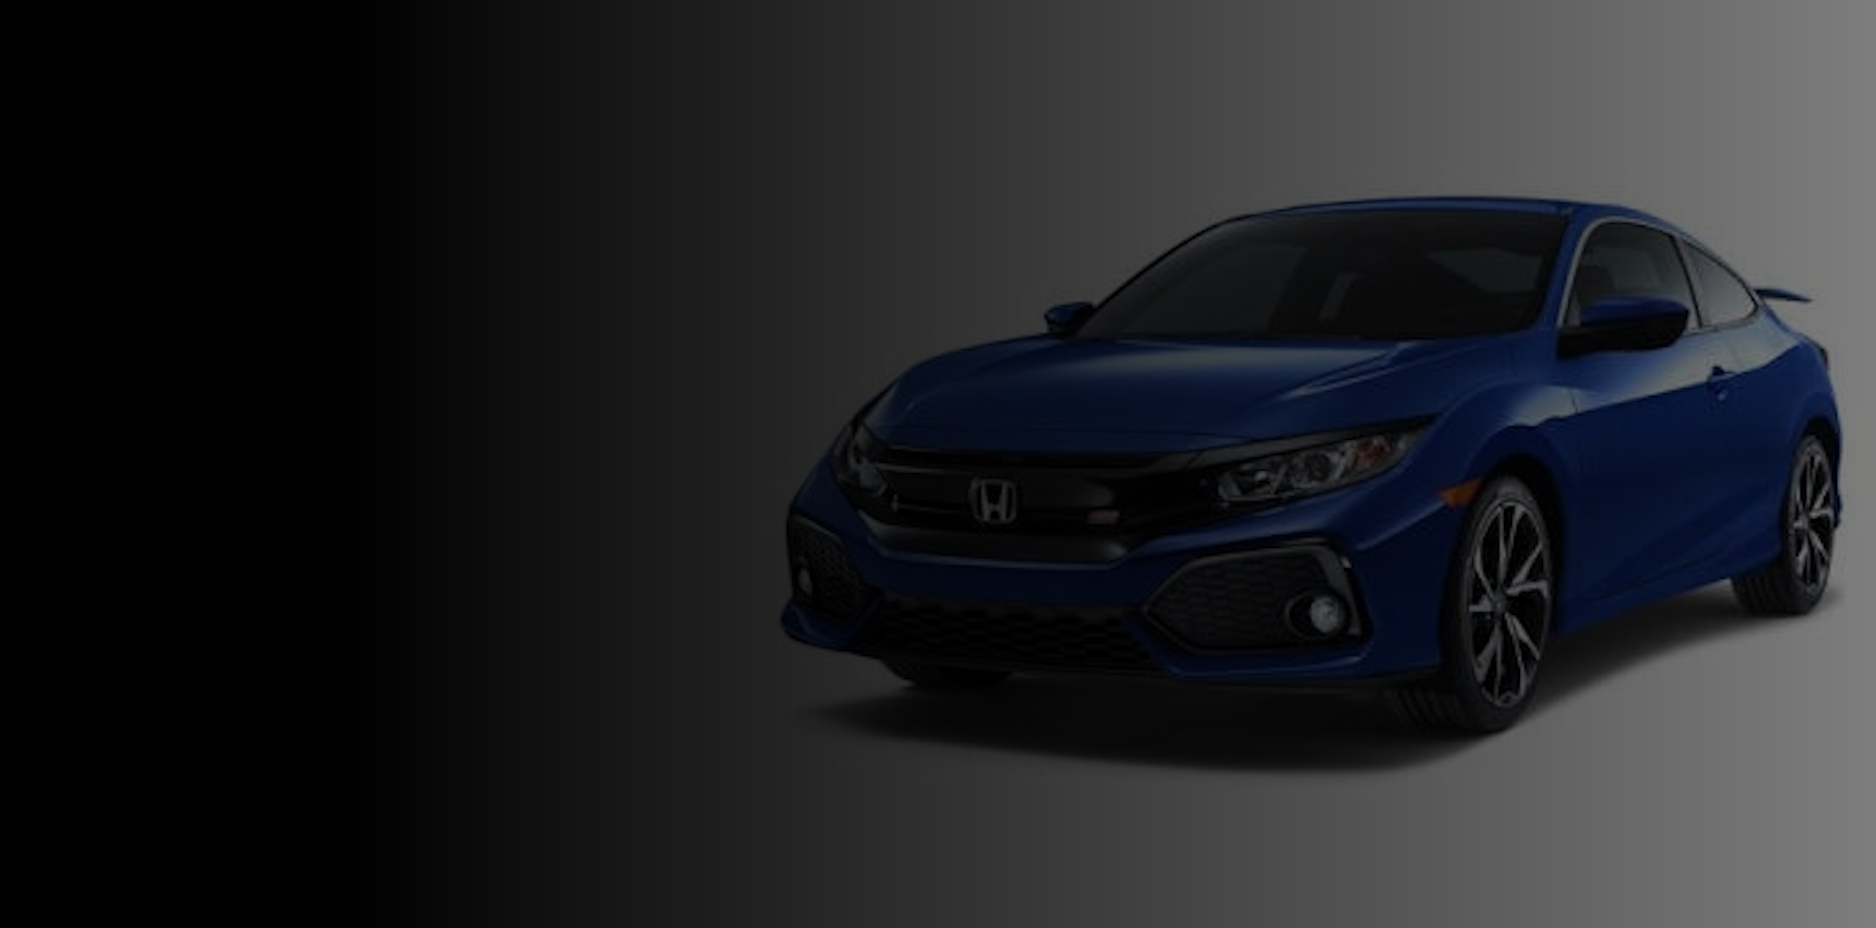
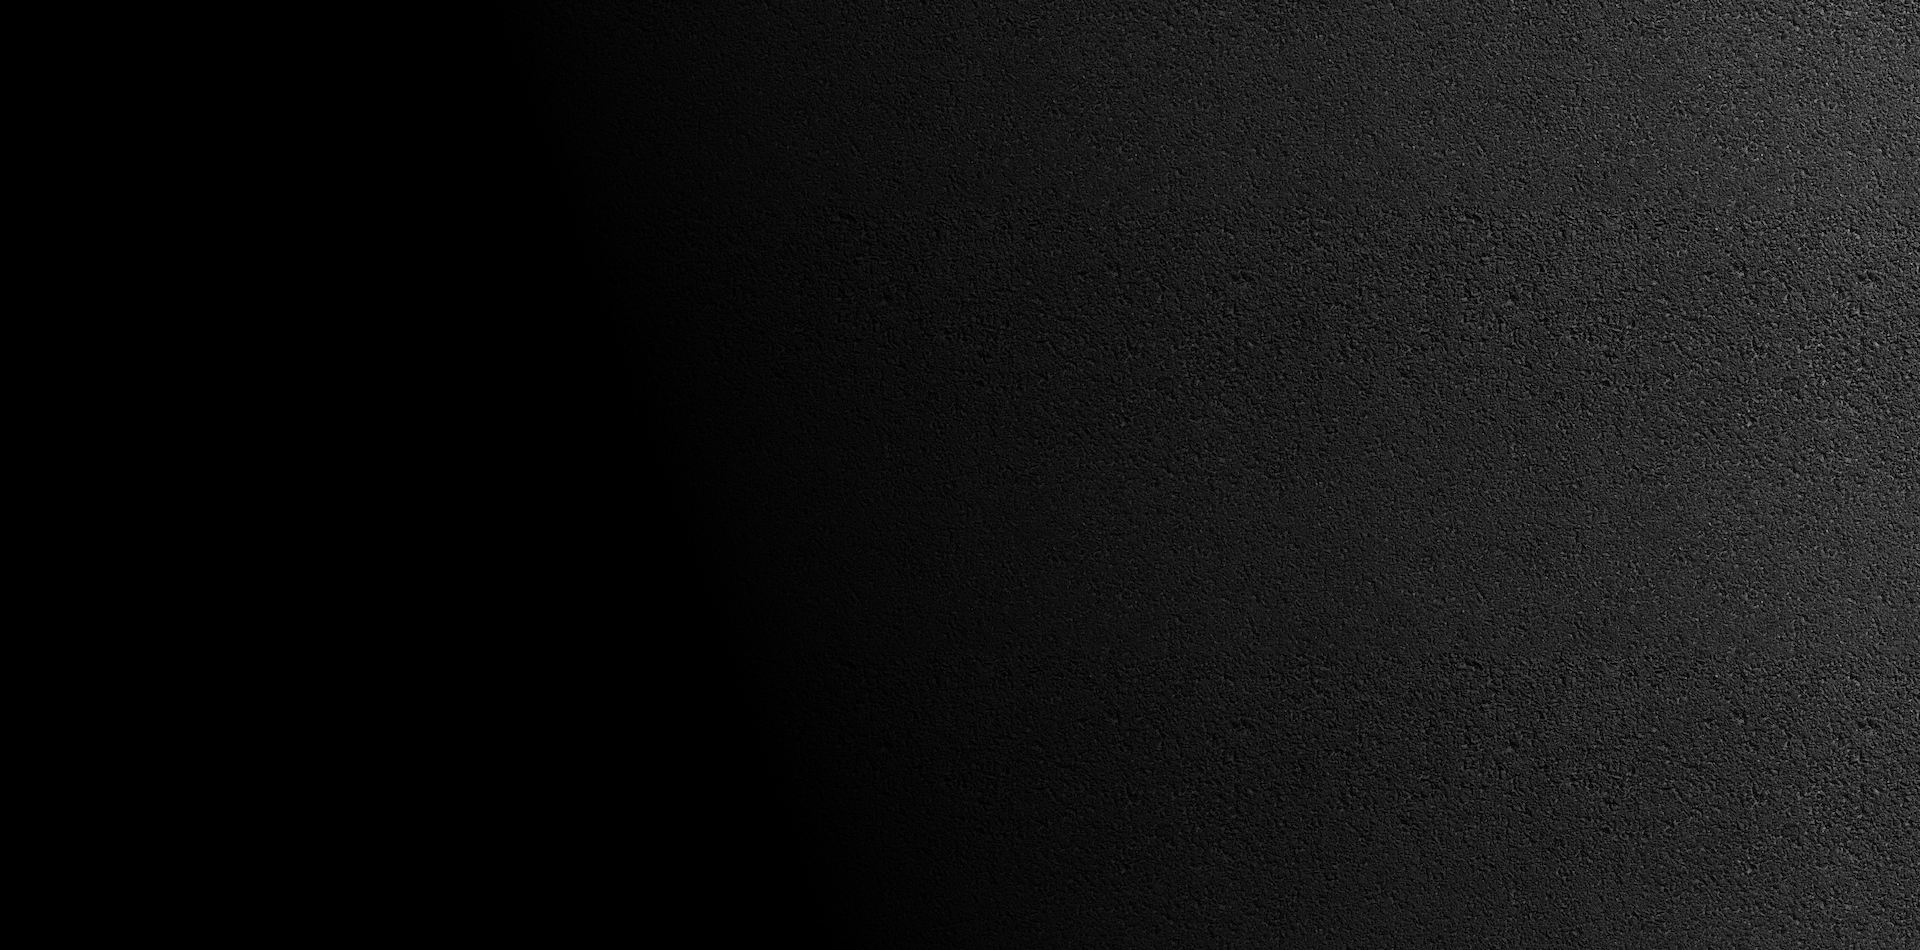
responsive navbar and titlecard

diff --git a/src/js/HeaderCarrent.js b/src/js/HeaderCarrent.js
@@ -13,28 +13,23 @@ function HeaderCarrent() {
             <div className="header-wrapper" id="header-wrapper">
                 <div className="container">
                     <div className="row align-items-center">
-                        <div className="col-lg-2 col-md-3 col-6">
-                            <div className="header-left">
-                                {/* idk why this exists*/}
-                            </div>
-                        </div>
-                        <div className="col-lg-10 col-md-9 col-6">
-                            <div className="header-right justify-content-end">
-                                <nav className="navbar d-lg-block">
+                                <nav className="navbar d-lg-block navbar-expand-lg">
                                     <div className="container-fluid">
-                                        <a className="navbar-brand d-flex align-content-start align-content-center" href="#">
-                                            <img src="../logo192.png" alt="company" width="64" height="64" className="d-inline-block align-text-bottom" />
-                                            <b className="navbar-text p-3"> VMMP s.r.o.</b>
-                                        </a>
-                                        <ul className="nav justify-content-end">
-                                            <li className="nav-item"><a className="nav-link" href="#"></a></li>
-                                            <li className="nav-item"><a href="#carlist" className="nav-link">Auta</a></li>
-                                            <li className="nav-item"><a href="#contacts" className="nav-link">Kontakty</a></li>
-                                        </ul>
+                                            <a className="navbar-brand d-flex align-content-start"
+                                               href="#">
+                                                <img src="../logo192.png" alt="company" width="64" height="64"
+                                                     className="d-inline-block align-text-bottom"/>
+                                                <b className="navbar-text p-3"> VMMP s.r.o.</b>
+                                            </a>
+                                            <ul className="nav justify-content-end">
+                                                <li className="nav-item"><a className="nav-link" href="#"></a></li>
+                                                <li className="nav-item"><a href="#carlist"
+                                                                            className="nav-link">Auta</a></li>
+                                                <li className="nav-item"><a href="#contacts"
+                                                                            className="nav-link">Kontakty</a></li>
+                                            </ul>
                                     </div>
                                 </nav>
-                            </div>
-                        </div>
                     </div>
                 </div>
             </div>

diff --git a/src/js/LandingPage.js b/src/js/LandingPage.js
@@ -4,7 +4,7 @@ const LandingPage = () => {
     return (
         <div className="bg-light bg-gradient">
             <div
-                className="testing slide personal-portfolio-slider slider-paralax slider-style-3 d-flex align-items-center justify-content-center bg_image bg_image--16">
+                className="testing slide personal-portfolio-slider slider-paralax slider-style-3 d-flex align-items-center justify-content-center">
                 <div className="container">
                     <div className="row">
                         <div className="col-lg-12">

diff --git a/src/css/style.scss b/src/css/style.scss
@@ -25,6 +25,9 @@ $main-color: #000000;
   background-image: url("../../public/bg-image-16.png");
   background-size: 100vw 100vh;
   background-repeat: no-repeat;
+  background-position: 0;
+  height: 950px;
+  position: relative;
 }
 
 .carcard {
@@ -626,6 +629,7 @@ Personal Portfolio
 --------------------------*/
 .personal-portfolio-slider {
   position: relative;
+  /*
   @media #{$sm-layout} {
     &::before {
       position: absolute;
@@ -656,7 +660,7 @@ Personal Portfolio
       opacity: 0.7;
     }
   }
-
+*/
 }
 .slide {
   &.personal-portfolio-slider ,
